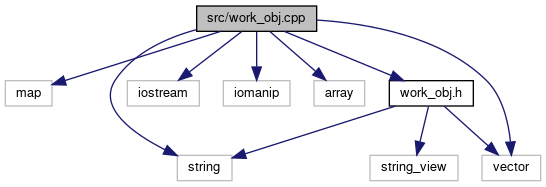
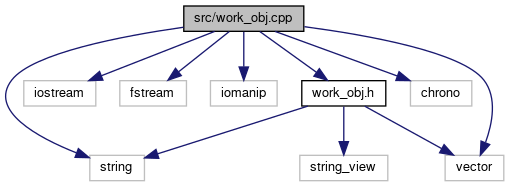
deploy: 721f1ddef9a109de5c759ad0f9c0e860b3d4dae4

diff --git a/work__obj_8h_source.html b/work__obj_8h_source.html
@@ -77,7 +77,7 @@ $(function() {
 <div class="line"><a id="l00006" name="l00006"></a><span class="lineno">    6</span><span class="preprocessor">#include &lt;vector&gt;</span></div>
 <div class="line"><a id="l00007" name="l00007"></a><span class="lineno">    7</span><span class="comment">//---------------------------------------------------------------------------</span></div>
 <div class="line"><a id="l00008" name="l00008"></a><span class="lineno">    8</span> </div>
-<div class="line"><a id="l00009" name="l00009"></a><span class="lineno">    9</span><span class="comment">// </span></div>
+<div class="line"><a id="l00009" name="l00009"></a><span class="lineno">    9</span><span class="comment">// debugging</span></div>
 <div class="line"><a id="l00010" name="l00010"></a><span class="lineno"><a class="line" href="work__obj_8h.html#a24e656e668c89dbe129ca947f501f639">   10</a></span><span class="preprocessor">#define DBG_LOGGING</span></div>
 <div class="line"><a id="l00011" name="l00011"></a><span class="lineno">   11</span> </div>
 <div class="line"><a id="l00012" name="l00012"></a><span class="lineno">   12</span> </div>
@@ -89,15 +89,19 @@ $(function() {
 <div class="line"><a id="l00018" name="l00018"></a><span class="lineno">   18</span>  <span class="keyword">public</span>:</div>
 <div class="line"><a id="l00019" name="l00019"></a><span class="lineno">   19</span> </div>
 <div class="line"><a id="l00020" name="l00020"></a><span class="lineno">   20</span>    <span class="keyword">static</span> <span class="keywordtype">int</span> <a class="code hl_function" href="classtst_1_1t__work__obj.html#a483c4f7d6aa31b88bb52c72ddac1dc8d">handle</a>(<span class="keywordtype">size_t</span> aun_batch_size);</div>
-<div class="line"><a id="l00021" name="l00021"></a><span class="lineno">   21</span>  <span class="keyword">private</span>:</div>
-<div class="line"><a id="l00022" name="l00022"></a><span class="lineno">   22</span>    <span class="keyword">static</span> <span class="keywordtype">void</span> print_batch(<span class="keyword">const</span> std::vector&lt;std::string&gt;&amp; avec_buf);</div>
+<div class="line"><a id="l00021" name="l00021"></a><span class="lineno">   21</span> </div>
+<div class="line"><a id="l00022" name="l00022"></a><span class="lineno">   22</span>  <span class="keyword">private</span>:</div>
 <div class="line"><a id="l00023" name="l00023"></a><span class="lineno">   23</span> </div>
-<div class="line"><a id="l00024" name="l00024"></a><span class="lineno">   24</span>    <span class="keyword">static</span> <span class="keywordtype">void</span> logout(<span class="keyword">const</span> std::string_view&amp; astr_view);</div>
-<div class="line"><a id="l00025" name="l00025"></a><span class="lineno">   25</span>  };</div>
-<div class="line"><a id="l00026" name="l00026"></a><span class="lineno">   26</span>  <span class="comment">//---------------------------------------------------------------------------</span></div>
-<div class="line"><a id="l00027" name="l00027"></a><span class="lineno">   27</span>}</div>
+<div class="line"><a id="l00024" name="l00024"></a><span class="lineno">   24</span>    <span class="keyword">static</span> <span class="keywordtype">void</span> print_batch(<span class="keyword">const</span> std::vector&lt;std::string&gt;&amp; avec_buf, std::ofstream&amp; a_write_file);</div>
+<div class="line"><a id="l00025" name="l00025"></a><span class="lineno">   25</span> </div>
+<div class="line"><a id="l00026" name="l00026"></a><span class="lineno">   26</span>    <span class="keyword">static</span> <span class="keywordtype">void</span> logout(<span class="keyword">const</span> std::string_view&amp; astr_view);</div>
+<div class="line"><a id="l00027" name="l00027"></a><span class="lineno">   27</span> </div>
+<div class="line"><a id="l00028" name="l00028"></a><span class="lineno">   28</span>    <span class="keyword">static</span> <span class="keyword">auto</span> get_tick_count();</div>
+<div class="line"><a id="l00029" name="l00029"></a><span class="lineno">   29</span>  };</div>
+<div class="line"><a id="l00030" name="l00030"></a><span class="lineno">   30</span>  <span class="comment">//---------------------------------------------------------------------------</span></div>
+<div class="line"><a id="l00031" name="l00031"></a><span class="lineno">   31</span>}</div>
 <div class="ttc" id="aclasstst_1_1t__work__obj_html"><div class="ttname"><a href="classtst_1_1t__work__obj.html">tst::t_work_obj</a></div><div class="ttdef"><b>Definition:</b> work_obj.h:17</div></div>
-<div class="ttc" id="aclasstst_1_1t__work__obj_html_a483c4f7d6aa31b88bb52c72ddac1dc8d"><div class="ttname"><a href="classtst_1_1t__work__obj.html#a483c4f7d6aa31b88bb52c72ddac1dc8d">tst::t_work_obj::handle</a></div><div class="ttdeci">static int handle(size_t aun_batch_size)</div><div class="ttdef"><b>Definition:</b> work_obj.cpp:14</div></div>
+<div class="ttc" id="aclasstst_1_1t__work__obj_html_a483c4f7d6aa31b88bb52c72ddac1dc8d"><div class="ttname"><a href="classtst_1_1t__work__obj.html#a483c4f7d6aa31b88bb52c72ddac1dc8d">tst::t_work_obj::handle</a></div><div class="ttdeci">static int handle(size_t aun_batch_size)</div><div class="ttdef"><b>Definition:</b> work_obj.cpp:22</div></div>
 <div class="ttc" id="anamespacetst_html"><div class="ttname"><a href="namespacetst.html">tst</a></div><div class="ttdef"><b>Definition:</b> work_obj.h:14</div></div>
 </div><!-- fragment --></div><!-- contents -->
 <!-- start footer part -->

diff --git a/work__obj_8cpp.html b/work__obj_8cpp.html
@@ -69,27 +69,27 @@ $(function() {
   <div class="headertitle"><div class="title">work_obj.cpp File Reference</div></div>
 </div><!--header-->
 <div class="contents">
-<div class="textblock"><code>#include &lt;map&gt;</code><br />
-<code>#include &lt;string&gt;</code><br />
+<div class="textblock"><code>#include &lt;string&gt;</code><br />
 <code>#include &lt;iostream&gt;</code><br />
+<code>#include &lt;fstream&gt;</code><br />
 <code>#include &lt;iomanip&gt;</code><br />
-<code>#include &lt;array&gt;</code><br />
 <code>#include &lt;vector&gt;</code><br />
+<code>#include &lt;chrono&gt;</code><br />
 <code>#include &quot;<a class="el" href="work__obj_8h_source.html">work_obj.h</a>&quot;</code><br />
 </div><div class="textblock"><div class="dynheader">
 Include dependency graph for work_obj.cpp:</div>
 <div class="dyncontent">
 <div class="center"><img src="work__obj_8cpp__incl.png" border="0" usemap="#asrc_2work__obj_8cpp" alt=""/></div>
 <map name="asrc_2work__obj_8cpp" id="asrc_2work__obj_8cpp">
-<area shape="rect" title=" " alt="" coords="197,5,317,32"/>
-<area shape="rect" title=" " alt="" coords="5,80,52,107"/>
-<area shape="rect" title=" " alt="" coords="177,155,232,181"/>
-<area shape="rect" title=" " alt="" coords="127,80,199,107"/>
-<area shape="rect" title=" " alt="" coords="223,80,290,107"/>
-<area shape="rect" title=" " alt="" coords="314,80,365,107"/>
-<area shape="rect" title=" " alt="" coords="482,155,541,181"/>
-<area shape="rect" href="work__obj_8h.html" title=" " alt="" coords="389,80,473,107"/>
-<area shape="rect" title=" " alt="" coords="370,155,458,181"/>
+<area shape="rect" title=" " alt="" coords="184,5,304,32"/>
+<area shape="rect" title=" " alt="" coords="90,155,144,181"/>
+<area shape="rect" title=" " alt="" coords="24,80,96,107"/>
+<area shape="rect" title=" " alt="" coords="120,80,186,107"/>
+<area shape="rect" title=" " alt="" coords="210,80,277,107"/>
+<area shape="rect" title=" " alt="" coords="445,155,504,181"/>
+<area shape="rect" title=" " alt="" coords="410,80,472,107"/>
+<area shape="rect" href="work__obj_8h.html" title=" " alt="" coords="302,80,386,107"/>
+<area shape="rect" title=" " alt="" coords="300,155,388,181"/>
 </map>
 </div>
 </div></div><!-- contents -->
